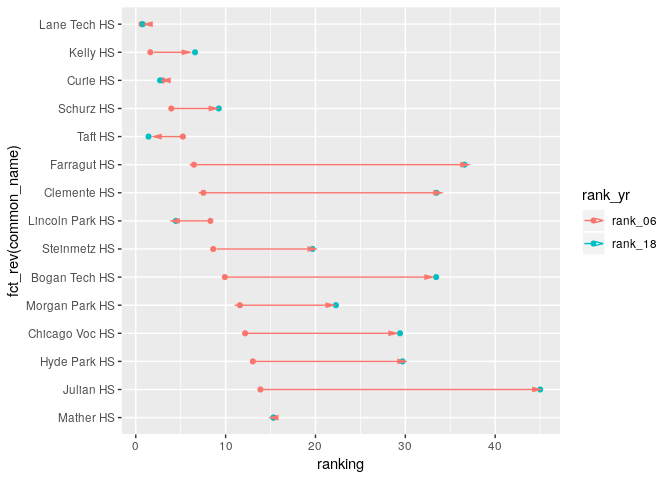
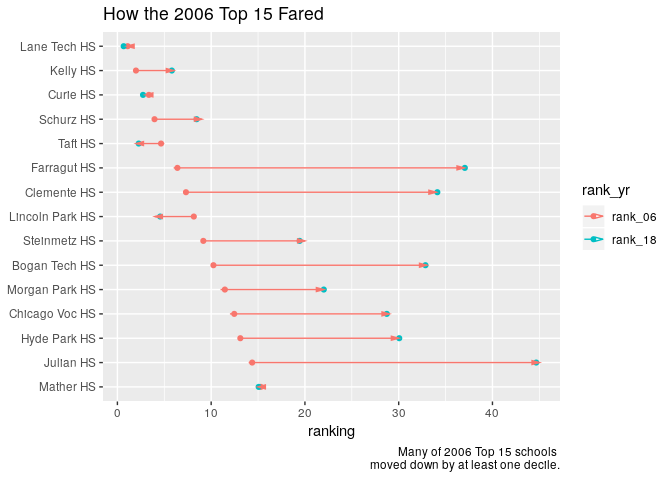
Added title and caption, removed y-axis title, in ranking graph.

diff --git a/lightning.md b/lightning.md
@@ -1,7 +1,7 @@
 Lightning Talk
 ================
 Charlotte Mack
-April 21, 2019
+April 22, 2019
 
 ``` r
 library(dplyr)
@@ -140,7 +140,10 @@ ranked %>% filter(rank_06 <= 15)  %>%
               arrow = grid::arrow(angle = 15, 
                                   length = unit(.2, "cm"), 
                                   ends = "last", 
-                                  type = "closed"))
+                                  type = "closed")) +
+    labs(title = "How the 2006 Top 15 Fared",
+         caption = "Many of 2006 Top 15 schools \nmoved down by at least one decile.") +
+    theme(axis.title.y = element_blank()) 
 ```
 
 ![](lightning_files/figure-markdown_github/re-tidy%20and%20plot-1.png)
